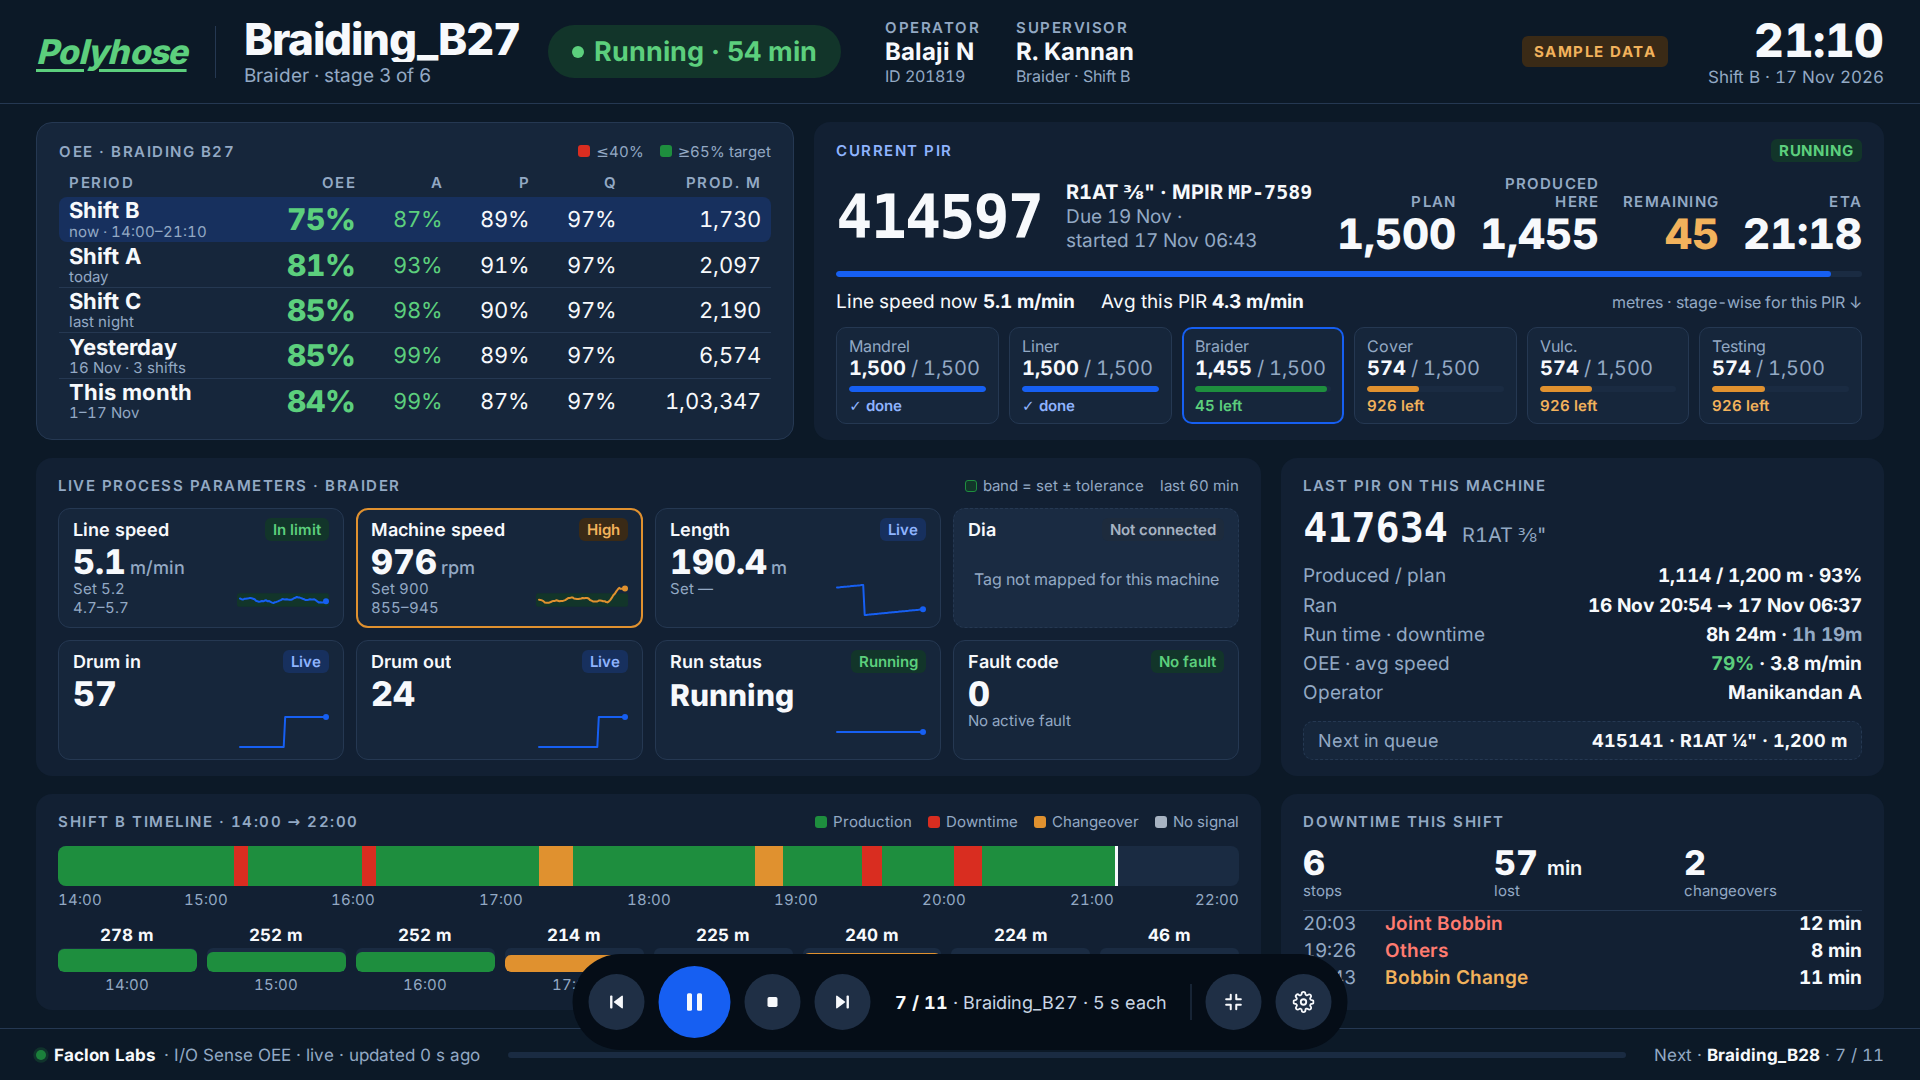
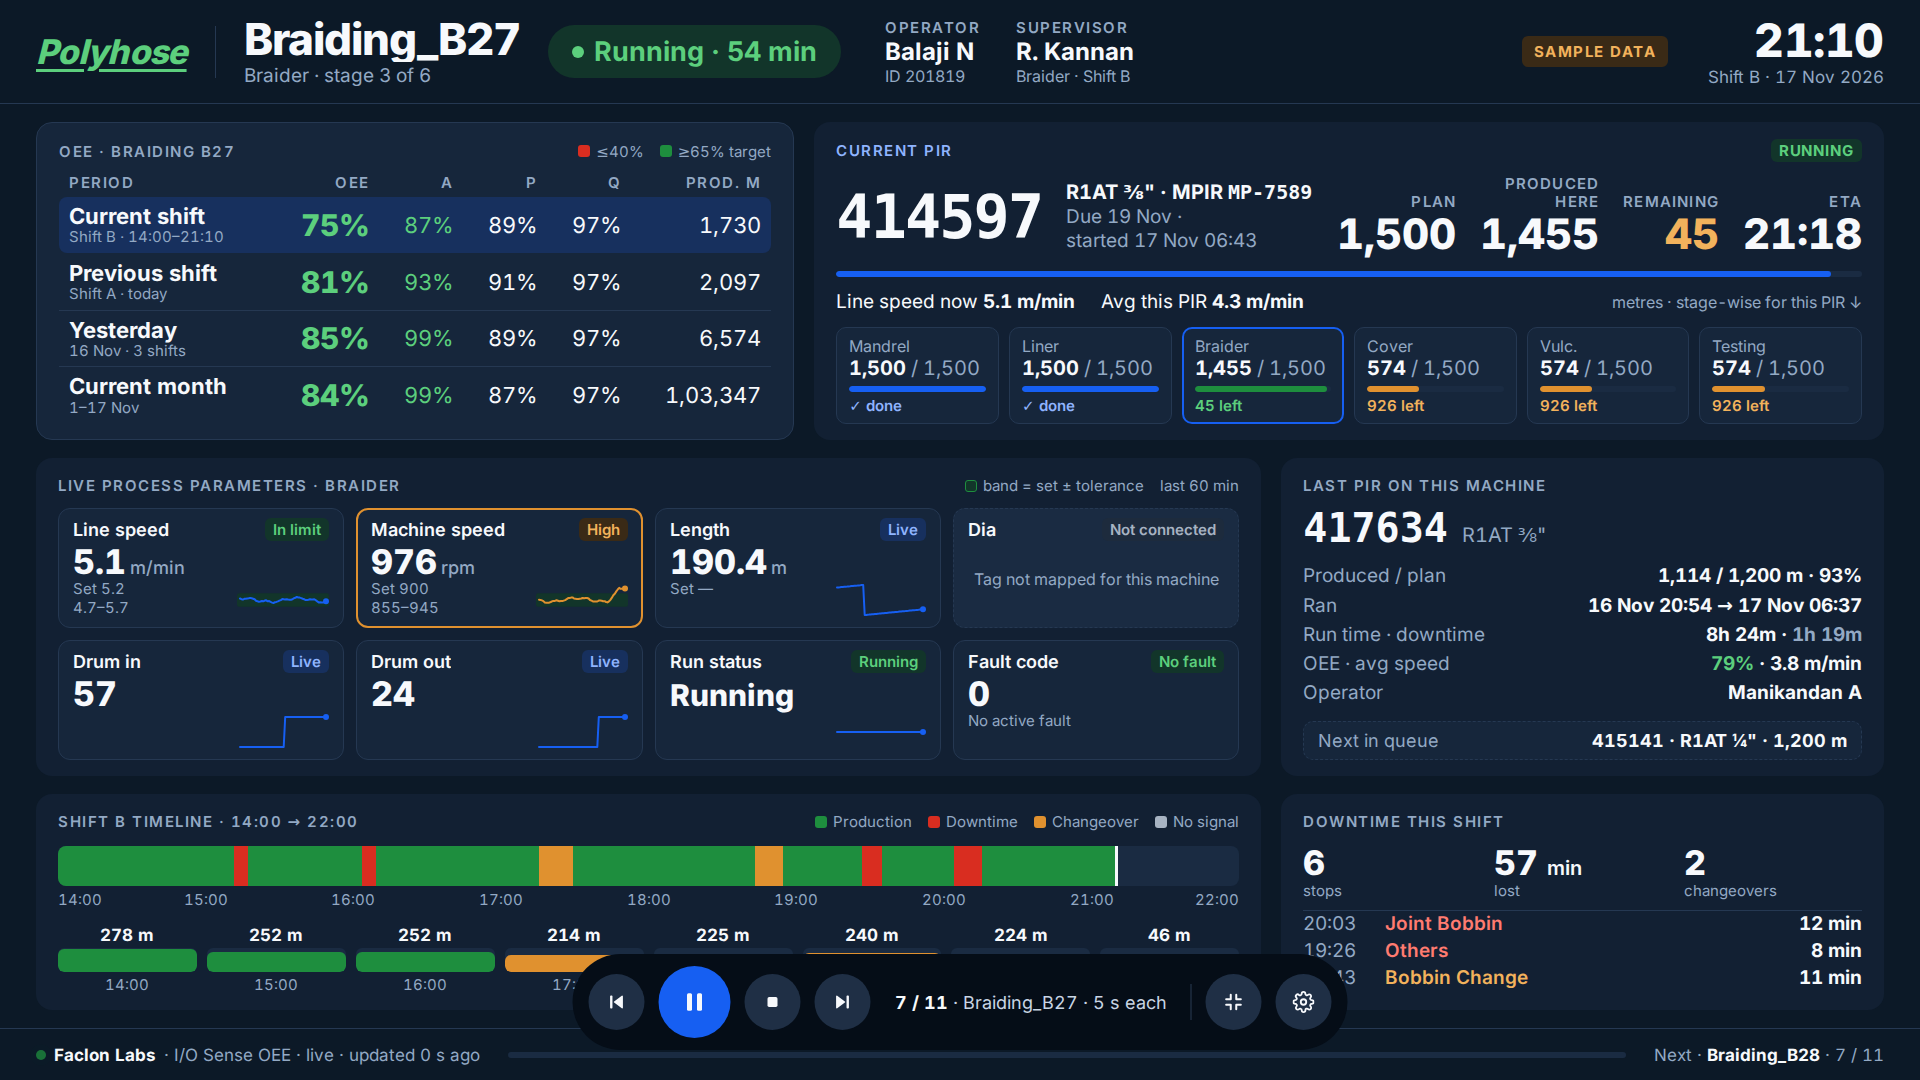
feat(tv): show four OEE periods with clearer names
- OEE table rows: Current shift, Previous shift, Yesterday, Current month
- Drop the second previous shift from the table and the mock data
- Shift letter moves to the sub-line; refreshed screenshots

Changed region(s): [[0.0312, 0.1528, 0.4062, 0.3972]]

diff --git a/frontend/src/components/tv/blocks/OeeBlock.tsx b/frontend/src/components/tv/blocks/OeeBlock.tsx
@@ -1,7 +1,14 @@
 import { computeOee, oeeTone } from '../../../tv/lib/calc';
 import { formatMetres, formatPct, hhmm } from '../../../tv/lib/format';
-import type { Machine, MachineDetail, MachineLive } from '../../../tv/types';
+import type { Machine, MachineDetail, MachineLive, PeriodKey } from '../../../tv/types';
 import { BlockLoading } from './BlockLoading';
+
+const PERIOD_LABEL: Record<PeriodKey, string> = {
+  current: 'Current shift',
+  prev: 'Previous shift',
+  yesterday: 'Yesterday',
+  month: 'Current month',
+};
 
 interface Props {
   machine: Machine;
@@ -47,11 +54,16 @@ export function OeeBlock({ machine, live, detail, now }: Props) {
               const isCurrent = row.key === 'current';
               const blank = isCurrent && noSignal;
               const r = blank ? null : computeOee(row, machine.id);
-              const sub = isCurrent && live ? `now · ${hhmm(live.shift.start)}–${hhmm(now)}` : row.sublabel;
+              const sub =
+                isCurrent && live
+                  ? `Shift ${live.shift.name} · ${hhmm(live.shift.start)}–${hhmm(now)}`
+                  : row.key === 'prev'
+                    ? `${row.label} · ${row.sublabel}`
+                    : row.sublabel;
               return (
                 <tr key={row.key} className={isCurrent ? 'is-current' : undefined}>
                   <td>
-                    <div className="oee-period">{row.label}</div>
+                    <div className="oee-period">{PERIOD_LABEL[row.key]}</div>
                     <div className="oee-period-sub">{sub}</div>
                   </td>
                   <td className={`oee-main tone-${oeeTone(r?.oee)}`}>{formatPct(r?.oee)}</td>

diff --git a/frontend/src/services/mockTvDataSource.ts b/frontend/src/services/mockTvDataSource.ts
@@ -361,7 +361,6 @@ function buildDetail(machine: Machine, now: Date): MachineDetail {
   const actualNow = prodMin * ideal * p;
 
   const prev = previousShift(shift);
-  const prev2 = previousShift(prev);
   const startOfToday = new Date(now);
   startOfToday.setHours(6, 0, 0, 0);
   if (now.getHours() < 6) startOfToday.setDate(startOfToday.getDate() - 1);
@@ -389,7 +388,6 @@ function buildDetail(machine: Machine, now: Date): MachineDetail {
       goodM: actualNow * q,
     },
     syntheticPeriod(machine, 'prev', `Shift ${prev.name}`, shiftLabel(prev), 480),
-    syntheticPeriod(machine, 'prev2', `Shift ${prev2.name}`, shiftLabel(prev2), 480),
     syntheticPeriod(machine, 'yesterday', 'Yesterday', `${dayMonth(yesterday)} · 3 shifts`, 1440),
     syntheticPeriod(machine, 'month', 'This month', `1–${now.getDate()} ${dayMonth(now).split(' ')[1]}`, 1440 * daysInMonth),
   ];

diff --git a/frontend/src/tv/types.ts b/frontend/src/tv/types.ts
@@ -57,7 +57,7 @@ export interface MachineLive {
   fetchedAt: string;
 }
 
-export type PeriodKey = 'current' | 'prev' | 'prev2' | 'yesterday' | 'month';
+export type PeriodKey = 'current' | 'prev' | 'yesterday' | 'month';
 
 /** Raw inputs for an OEE period. A/P/Q/OEE are derived in lib/calc. */
 export interface PeriodOeeInput {
